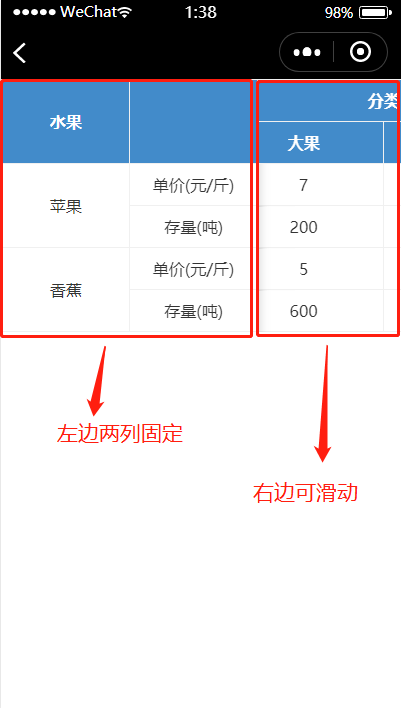
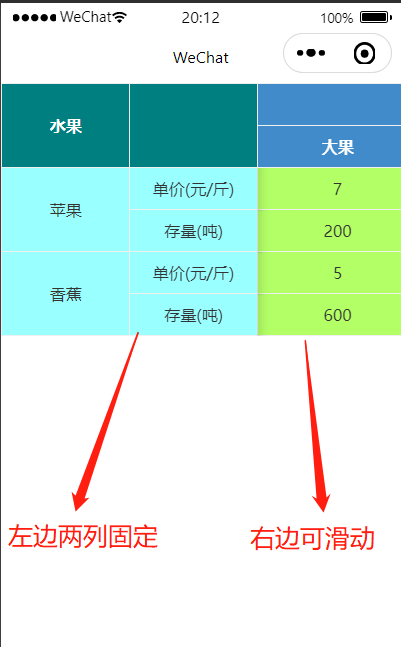
修复了一个不严谨的拼写错误bodyOption拼成了bodyOptiton；新增属性用于设置单元格样式

diff --git a/src/j-table/index.js b/src/j-table/index.js
@@ -42,6 +42,9 @@ Component({
         },
         data: {
             type: Array
+        },
+        lineHeight: {
+            type: String
         }
     },
     data: {
@@ -79,7 +82,7 @@ Component({
                                 success: function (result) {
                                     _this.data.systemInfo.windowWidth = result.windowWidth;
                                     _this.data.systemInfo.rate = result.windowWidth / 375;
-                                    resolve();
+                                    resolve(1);
                                 },
                             });
                         })];
@@ -90,11 +93,14 @@ Component({
             var option = this.properties.option;
             var data = this.properties.data;
             var r = this.data.systemInfo.rate;
-            var bgColor = option.headOption.bgColor;
+            var thStickyStyle = option.headOption.thStickyStyle;
+            var thStyle = option.headOption.thStyle;
+            var tdStickyStyle = option.bodyOption.tdStickyStyle;
+            var tdStyle = option.bodyOption.tdStyle;
             var tableWidth = option.colOption.reduce(function (p, v) { return p + v; });
             var col = "";
-            var thead = "<thead>";
-            var tbody = "<tbody>";
+            var thead = option.headOption.lineHeight ? "<thead style=\"line-height:" + option.headOption.lineHeight + ";\">" : "<thead>";
+            var tbody = option.bodyOption.lineHeight ? "<tbody style=\"line-height:" + option.bodyOption.lineHeight + ";\">" : "<tbody>";
             var html = "<div style=\"width: " + (option.width ? option.width * r : this.data.systemInfo.windowWidth) + "px; overflow: auto;border-left: #f0f0f0 solid 1px;border-top: #f0f0f0 solid 1px;\">\n        <table style=\"table-layout: fixed;border-collapse: separate;border-spacing: 0;width: " + tableWidth * r + "px;\">";
             option.colOption.forEach(function (v) {
                 col += "<col style=\"width: " + v * r + "px\" />";
@@ -103,10 +109,10 @@ Component({
                 thead += "<tr>";
                 row.forEach(function (cell, cellIndex) {
                     if (cell.sticky) {
-                        thead += "<th class=\"thead-cell tcell " + (cell.isLastSticky ? 'tcell-fix-left-last' : '') + "\" style=\"background-color:" + bgColor + ";position: sticky; left: " + cell.left * r + "px\"  rowspan=\"" + cell.rowspan + "\" colspan=\"" + cell.colspan + "\">" + cell.value + "</th>";
+                        thead += "<th class=\"thead-cell tcell " + (cell.isLastSticky ? 'tcell-fix-left-last' : '') + "\" style=\"position: sticky; left: " + cell.left * r + "px;" + thStickyStyle + "\" rowspan=\"" + cell.rowspan + "\" colspan=\"" + cell.colspan + "\">" + cell.value + "</th>";
                     }
                     else {
-                        thead += " <th class=\"thead-cell tcell\" style=\"background-color:" + bgColor + "\" rowspan=\"" + cell.rowspan + "\" colspan=\"" + cell.colspan + "\">" + cell.value + "</th>";
+                        thead += " <th class=\"thead-cell tcell\" style=" + thStyle + " rowspan=\"" + cell.rowspan + "\" colspan=\"" + cell.colspan + "\">" + cell.value + "</th>";
                     }
                     if (cellIndex === row.length - 1) {
                         thead += "</tr>";
@@ -117,14 +123,14 @@ Component({
                 }
             });
             data.forEach(function (data, dataIndex, dataArr) {
-                option.bodyOptiton.row.forEach(function (row) {
+                option.bodyOption.row.forEach(function (row) {
                     tbody += "<tr>";
                     row.forEach(function (cell, cellIndex) {
                         if (cell.sticky) {
-                            tbody += "<td class=\"tcell " + (cell.isLastSticky ? 'tcell-fix-left-last' : '') + "\" style=\"position: sticky; left: " + cell.left * r + "px\"  rowspan=\"" + cell.rowspan + "\">" + (cell.value ? cell.value : data[cell.prop]) + "</td>";
+                            tbody += "<td class=\"tcell " + (cell.isLastSticky ? 'tcell-fix-left-last' : '') + "\" style=\"position: sticky; left: " + cell.left * r + "px;" + tdStickyStyle + "\" rowspan=\"" + cell.rowspan + "\">" + (cell.value ? cell.value : data[cell.prop]) + "</td>";
                         }
                         else {
-                            tbody += " <td class=\"tcell\" rowspan=\"" + cell.rowspan + "\">" + (cell.value ? cell.value : data[cell.prop]) + "</td>";
+                            tbody += " <td class=\"tcell\" style=" + tdStyle + " rowspan=\"" + cell.rowspan + "\">" + (cell.value ? cell.value : data[cell.prop]) + "</td>";
                         }
                         if (cellIndex === row.length - 1) {
                             tbody += "</tr>";
@@ -145,4 +151,4 @@ Component({
         attached: function () { }
     },
 });
[2 lines of base64/hex data omitted]

diff --git a/src/j-table/index.ts b/src/j-table/index.ts
@@ -26,7 +26,7 @@ Component({
                     success: (result: any) => {
                         this.data.systemInfo.windowWidth = result.windowWidth;
                         this.data.systemInfo.rate = result.windowWidth / 375;
-                        resolve();
+                        resolve(1);
                     },
                 })
             })
@@ -35,7 +35,10 @@ Component({
             const option = this.properties.option;
             const data = this.properties.data;
             const r = this.data.systemInfo.rate;
-            const bgColor = option.headOption.bgColor;
+            const thStickyStyle = option.headOption.thStickyStyle;
+            const thStyle = option.headOption.thStyle;
+            const tdStickyStyle = option.bodyOption.tdStickyStyle;
+            const tdStyle = option.bodyOption.tdStyle;
             const tableWidth = option.colOption.reduce((p: number, v: number) => p + v);
             let col = ``;
             let thead = `<thead>`;
@@ -49,9 +52,9 @@ Component({
                 thead += `<tr>`;
                 row.forEach((cell: any, cellIndex: number) => {
                     if (cell.sticky) {
-                        thead += `<th class="thead-cell tcell ${cell.isLastSticky ? 'tcell-fix-left-last' : ''}" style="background-color:${bgColor};position: sticky; left: ${cell.left * r}px"  rowspan="${cell.rowspan}" colspan="${cell.colspan}">${cell.value}</th>`
+                        thead += `<th class="thead-cell tcell ${cell.isLastSticky ? 'tcell-fix-left-last' : ''}" style="position: sticky; left: ${cell.left * r}px;${thStickyStyle}" rowspan="${cell.rowspan}" colspan="${cell.colspan}">${cell.value}</th>`
                     } else {
-                        thead += ` <th class="thead-cell tcell" style="background-color:${bgColor}" rowspan="${cell.rowspan}" colspan="${cell.colspan}">${cell.value}</th>`
+                        thead += ` <th class="thead-cell tcell" style=${thStyle} rowspan="${cell.rowspan}" colspan="${cell.colspan}">${cell.value}</th>`
                     }
                     if (cellIndex === row.length - 1) {
                         thead += `</tr>`
@@ -62,13 +65,13 @@ Component({
                 }
             })
             data.forEach((data, dataIndex, dataArr) => {
-                option.bodyOptiton.row.forEach((row: []) => {
+                option.bodyOption.row.forEach((row: []) => {
                     tbody += `<tr>`;
                     row.forEach((cell: any, cellIndex: number) => {
                         if (cell.sticky) {
-                            tbody += `<td class="tcell ${cell.isLastSticky ? 'tcell-fix-left-last' : ''}" style="position: sticky; left: ${cell.left * r}px"  rowspan="${cell.rowspan}">${cell.value ? cell.value : data[cell.prop]}</td>`
+                            tbody += `<td class="tcell ${cell.isLastSticky ? 'tcell-fix-left-last' : ''}" style="position: sticky; left: ${cell.left * r}px;${tdStickyStyle}" rowspan="${cell.rowspan}">${cell.value ? cell.value : data[cell.prop]}</td>`
                         } else {
-                            tbody += ` <td class="tcell" rowspan="${cell.rowspan}">${cell.value ? cell.value : data[cell.prop]}</td>`
+                            tbody += ` <td class="tcell" style=${tdStyle} rowspan="${cell.rowspan}">${cell.value ? cell.value : data[cell.prop]}</td>`
                         }
                         if (cellIndex === row.length - 1) {
                             tbody += `</tr>`

diff --git a/test/j-table.html b/test/j-table.html
@@ -50,7 +50,7 @@
             <col style="width: 150px" />
             <thead>
                 <tr>
-                    <th class="thead-cell tcell " style="background-color:rgb(66, 139, 202);position: sticky; left: 0px"
+                    <th class="thead-cell tcell " style="background-color:rgb(66, 139, 202);position: sticky; left: 0px;"
                         rowspan="2" colspan="undefined">水果</th>
                     <th class="thead-cell tcell "
                         style="background-color:rgb(66, 139, 202);position: sticky; left: 120px" rowspan="2"

diff --git a/tools/demo/pages/index/index.js b/tools/demo/pages/index/index.js
@@ -30,7 +30,7 @@ Page({
                 ],
                 bgColor: 'rgb(66, 139, 202)'
             },
-            bodyOptiton: {
+            bodyOption: {
                 row: [
                     [{
                         value: '',

diff --git a/README.md b/README.md
@@ -6,13 +6,18 @@
     - 支持表格左右滑动（可自定义配置表格固定列）
     - 不支持点击事件
 
+## 与上一版本(v1.0.6)差异
+
+1. 取消headOption.bgColor属性，新增headOption.thStickyStyle和headOption.thStyle属性，用于设置表头单元格样式
+2. 新增bodyOption.tdStickyStyle和bodyOption.tdStyle属性，用于设置表格body单元格的样式
+
 ## 使用教程
 
 * 下载包之后，使用微信开发者工具构建npm
 
 * 在page.json中引入j-table自定义组件
 
-``` js
+```js
     {
         "usingComponents": {
             "j-table": "wechat-table/j-table/index"
@@ -22,7 +27,7 @@
 
 * 在page.wxml模板中使用j-table组件（传入option配置和表格数据data）
 
-``` html
+```html
 <j-table option="{{tableOption}}" data="{{tableData}}" />
 ```
 
@@ -32,9 +37,12 @@
 |-----|-----|-----|-------|
 | headOption | object  | 表头配置   | -     |
 | headOption.row | [ [{ }] ]  | 表头行配置：二维数组，每个元素为每一行的配置，每一行包含该行所有单元格的配置对象，单元格配置对象参见下方head接口   | -     |
-| headOption.bgColor | string  | 表头背景色   | 'white'     |
+| headOption.thStickyStyle | string  | 表头固定单元格的样式   | -     |
+| headOption.thStyle | string  | 表头可滑动单元格的样式   | -     |
 | bodyOption | object  | 表格body配置   | -     |
 | bodyOption.row | [ [{ }] ]  | 表格body行配置：二维数组，每个元素为每一行的配置，每一行包含该行所有单元格的配置对象，单元格配置对象参见下方body接口   | -     |
+| bodyOption.tdStickyStyle | string  | 表格body固定单元格的样式   | -     |
+| bodyOption.tdStyle | string  | 表格body可滑动单元格的样式   | -     |
 | colOption | number[]  | 表格每列宽度设置(单位：px，这里填写ipnhoe6下合适的宽度值即可，该组件对其他不同类型设备已做了自适应)。 例：[80, 80, 100, 100]。注意：固定单元格的left属性须与这里配置的对应   | -     |
 | width | number  | 表格宽度(单位：px，这里填写ipnhoe6下合适的宽度值即可，该组件对其他不同类型设备已做了自适应)。 | 设备宽度     |
 
@@ -62,7 +70,7 @@
 
 ### option配置示例
 
-``` js
+```js
 option: {
     headOption: {
         row: [
@@ -86,9 +94,10 @@ option: {
                 value: '小果',
             }]
         ],
-        bgColor: 'rgb(66, 139, 202)'
+        thStickyStyle: 'background-color:#007f80;',
+        thStyle: 'background-color:#428bca;'
     },
-    bodyOptiton: {
+    bodyOption: {
         row: [
             [{
                 value: '',
@@ -116,7 +125,9 @@ option: {
             }, {
                 prop: 'smallFruitStock'
             }]
-        ]
+        ],
+        tdStickyStyle: 'background-color:#99ffff;',
+        tdStyle: 'background-color:#b3ff66;'
     },
     colOption: [120, 120, 150, 150]
 }
@@ -124,7 +135,7 @@ option: {
 
 ### 表格数据data示例
 
-``` js
+```js
 [{
         fruitName: '苹果',
         bigFruitPrice: 7,
@@ -142,6 +153,10 @@ option: {
 ]
 ```
 
-#### 若使用上述配置，将呈现出如下页面
+#### 若使用上述配置，将呈现出如下页面(若图片加载不出来可以百度一下解决方案)
 
 ![示例图片](./images/j-table-example.jpg)
+
+#### 动画展示  
+
+<iframe height=600 width=400 src="./images/wechat-table.gif">
